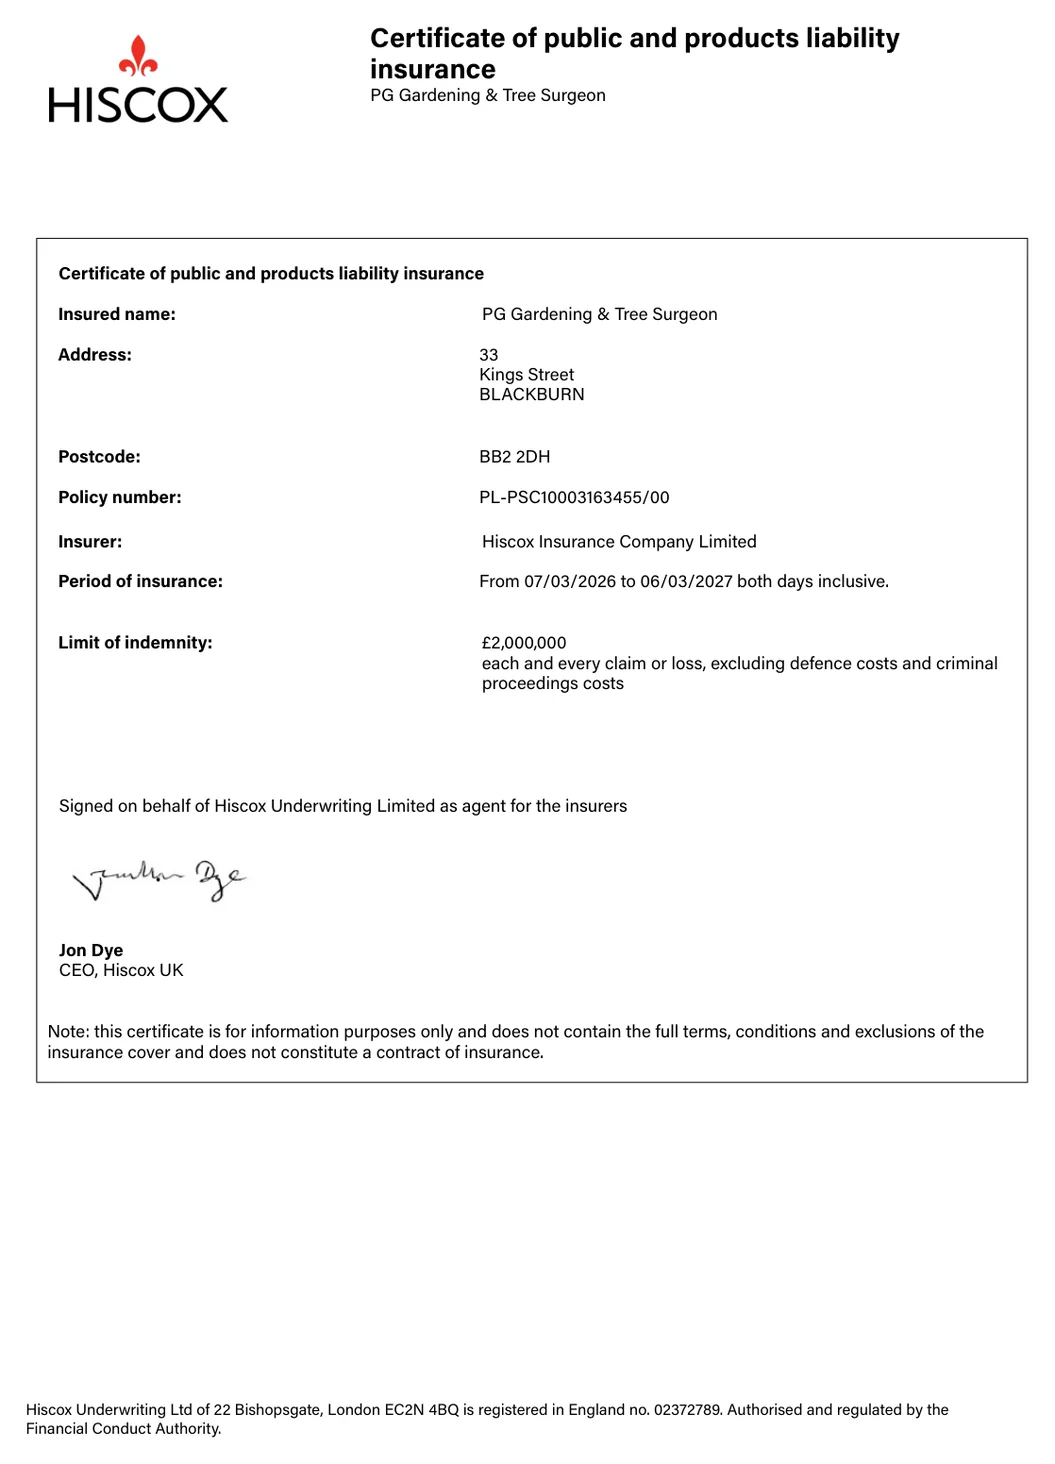
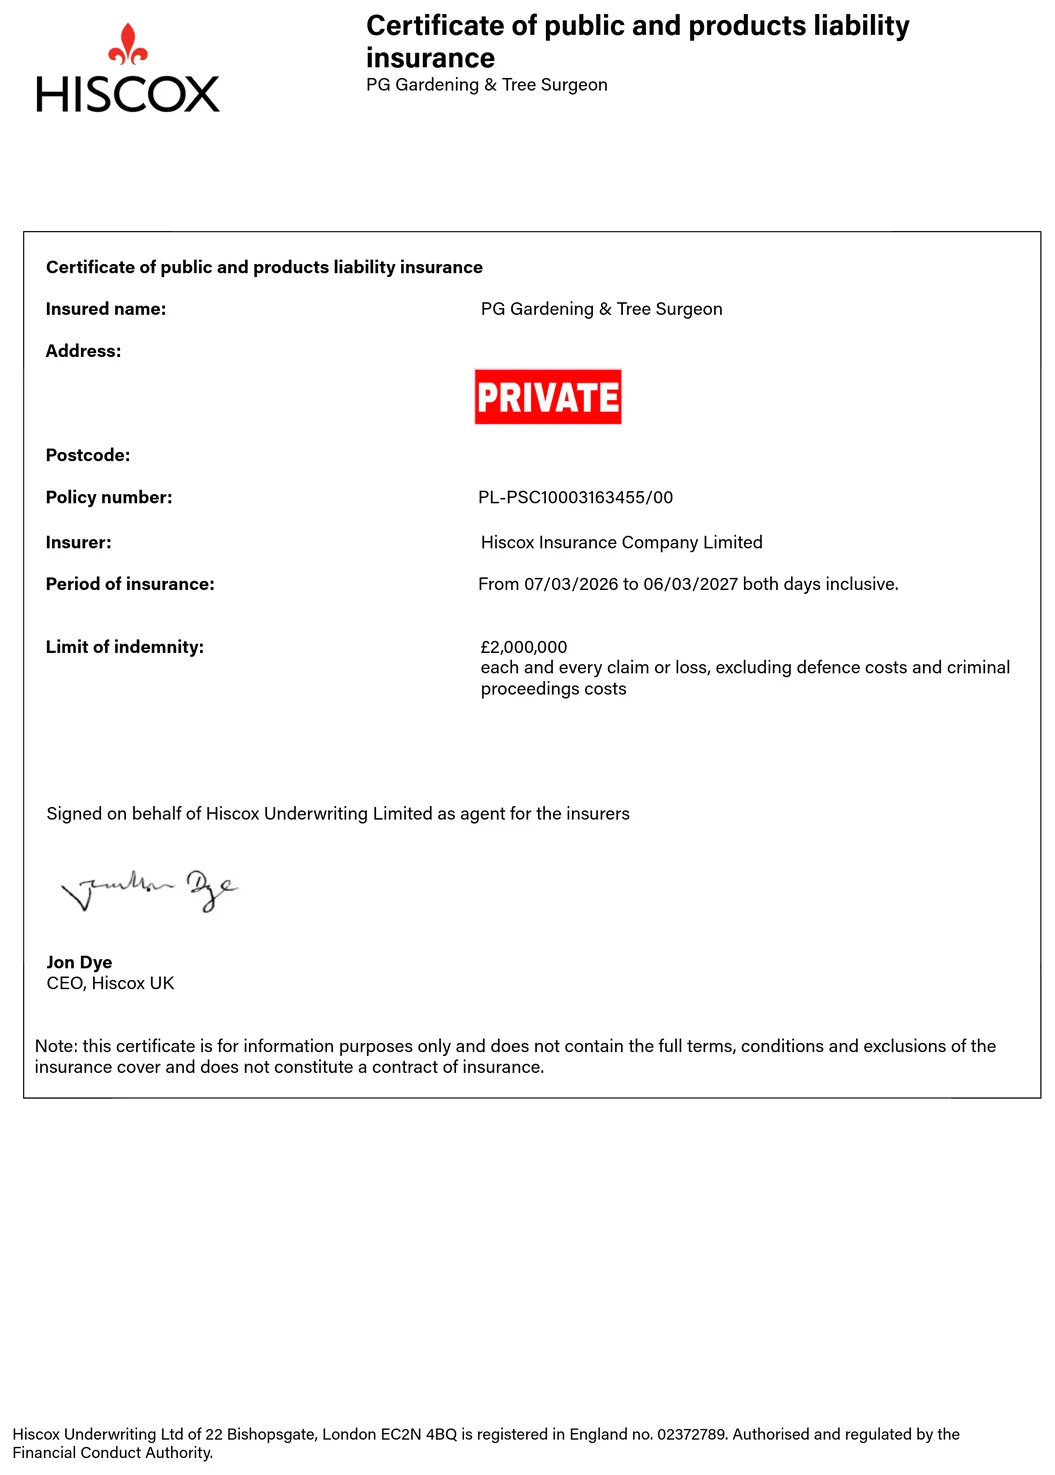
Publish the redacted insurance certificate, and take the address back off the site
The owner sent the certificate again with the address and postcode stamped
PRIVATE. That version is now the one published.

It also settles a question I had got wrong. Yesterday I took the address off
the unredacted certificate and put it on the privacy policy as the postal
address for data protection, and flagged it as his decision to make. The
redaction is that decision: publishing the address in plain text three lines
into the privacy policy would have made stamping it out of the certificate
pointless. It is gone from there, and the "still to be confirmed" notice goes
back to naming two items rather than one.

Nothing on the site carries the address now — checked across every page,
script and data file.

For data protection nothing is lost. UK GDPR asks for the controller's contact
details, and the email address and phone number already on that page satisfy
it; a postal address has never been required.

The Companies Act is the part that genuinely still needs an answer, because a
limited company must show its company number and registered office on its
website. NEEDED-FROM-YOU.md now sets out the three ways to satisfy that
without his front door going up — an accountant's address, a registered office
service, or his own address on the basis that if it is already the registered
office it is on the public register anyway and publishing it changes how easy
it is to find rather than whether it can be found.
[…]

diff --git a/privacy-policy.html b/privacy-policy.html
@@ -58,19 +58,14 @@
 
 <div class="notice">
 <h3>Details still to be confirmed</h3>
-<p class="mb-0">The trading name, legal status and postal address are confirmed. Still to come: the company number and registered office from Companies House, and whether the business is registered with the ICO. Those are marked below. <span class="pending">Owner action needed</span></p>
+<p class="mb-0">The trading name and legal status are confirmed. Still to come: the company number and registered office from Companies House, and whether the business is registered with the ICO. Those are marked below. <span class="pending">Owner action needed</span></p>
 </div>
 
 <h2>1. Who we are</h2>
 <p><strong>PG Gardening &amp; Tree Surgeon</strong> ("we", "us") is a limited company providing gardening, tree surgery, hedge cutting and power washing services in Blackburn and across Lancashire.</p>
 <p>For the purposes of the UK GDPR we are the <strong>data controller</strong> for the personal information described in this policy. That means we decide what information is collected and what happens to it.</p>
 <p><strong>Contact for data protection matters:</strong> <!--EMAIL--><a href="mailto:pggardening1@gmail.com">pggardening1@gmail.com</a><!--/EMAIL-->, or <!--PHONE1--><a class="tel" href="tel:+447443356651" aria-label="Jerry: 07443 356 651"><span class="tel__label">Jerry:</span> <strong>07443 356 651</strong></a><!--/PHONE1-->.</p>
-<p><strong>Postal address:</strong><br>
-PG Gardening &amp; Tree Surgeon<br>
-33 Kings Street<br>
-Blackburn<br>
-BB2 2DH</p>
-<p><span class="pending">Owner: still needed &mdash; the company number and registered office from Companies House. UK law requires a limited company to show both.</span></p>
+<p><span class="pending">Owner: still needed &mdash; the company number and registered office from Companies House. UK law requires a limited company to show both on its website.</span></p>
 
 <h2>2. What information we collect</h2>
 <p>We only collect what we need to answer your enquiry and do the work.</p>

diff --git a/NEEDED-FROM-YOU.md b/NEEDED-FROM-YOU.md
@@ -82,34 +82,37 @@ bought it rather than for the code:
 
 ### 1.4 Business details for the privacy policy — PART DONE
 
-Settled: the trading name, the legal status, and now the **postal address**,
-taken from your insurance certificate:
+Settled: the trading name and the legal status.
 
-> PG Gardening & Tree Surgeon
-> 33 Kings Street, Blackburn, BB2 2DH
+**Your address is not on the website anywhere.** You sent the insurance
+certificate with the address stamped PRIVATE, so the redacted version is the
+one published, and I have taken the address back off the privacy policy where I
+had briefly put it. Publishing it in plain text three lines away would have
+made the redaction pointless. Nothing on the site carries it now — checked
+across every page, script and data file.
 
-That is on the privacy policy as the address for data protection
-correspondence, which is the one place UK law requires it.
+For data protection that is fine. UK GDPR asks for the controller's contact
+details, and the email address and phone number already there satisfy it — a
+postal address is not required.
 
-**Two things left, both from Companies House:**
+**The Companies Act is the part still outstanding.** A limited company has to
+show its **company number** and **registered office address** on its website.
+There is no way around that one, but there are three ways to satisfy it without
+your front door going up:
 
-- **Company number** — eight digits, on the incorporation certificate, and free
-  to look up.
-- **Registered office address** — which may or may not be the one above.
+1. **Your accountant's address**, used as the registered office. Most
+   accountants offer this and many include it in the fee.
+2. **A registered office service**, roughly £30–£50 a year.
+3. **Your home address, as it is.** Worth knowing before you rule it out: if
+   your registered office is already your home, it is on the public Companies
+   House register anyway and anyone can look it up in ten seconds. Putting it
+   on the website changes how easy it is to find, not whether it can be found.
 
-A limited company has to publish both on its website. It is the only visible
-gap left on the whole site.
-
-**Also worth deciding, and I have not done it:** the address is currently only
-on the privacy policy. Putting it in the footer and in the business data Google
-reads would help you show up in local map results, which for a Blackburn trade
-is worth real money. But if 33 Kings Street is your home, that is a decision
-about your front door rather than about the website, and it is yours to make.
-Say the word either way.
+Whichever you pick, send me the company number and the address and it goes on
+the privacy policy — that is the last visible gap on the site.
 
 - Company number: ............................
-- Registered office, if different from above: ............................
-- Address in the footer and in the Google business data? yes / no
+- Registered office to publish: ............................
 
 ## 2. Trust — the things customers actually check
 
@@ -153,7 +156,8 @@ the candidate number and leave everything else.
 
 ### 2.2 Insurance — DONE, and now evidenced
 
-The Hiscox certificate is on the About page, alongside the tickets.
+The Hiscox certificate is on the About page, alongside the tickets, in the
+redacted version you sent — address and postcode stamped PRIVATE.
 
 - **Insurer:** Hiscox Insurance Company Limited
 - **Limit of indemnity:** £2,000,000 each and every claim or loss
@@ -167,6 +171,10 @@ is worth more than the figure on its own.
 **Diary note: renew before 6 March 2027.** When you do, send the new
 certificate and I will swap it — an expired certificate on a website is worse
 than none at all.
+
+**The policy number is still visible** on the published certificate. You
+redacted the address but not that, so I have left it as you sent it. Say the
+word if you want it covered too.
 
 **One discrepancy.** The certificate insures "PG Gardening & Tree Surgeon",
 with no "Ltd" or "Limited". The privacy policy says the business is a limited
